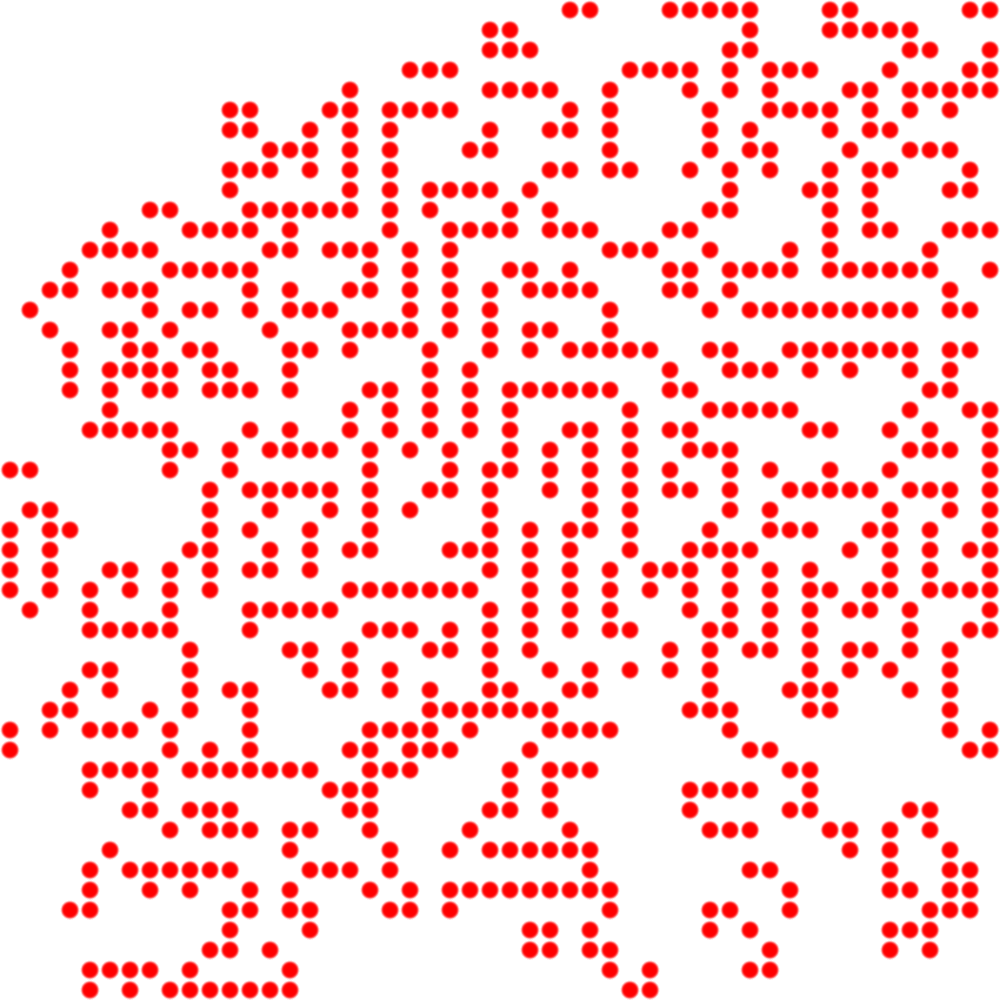
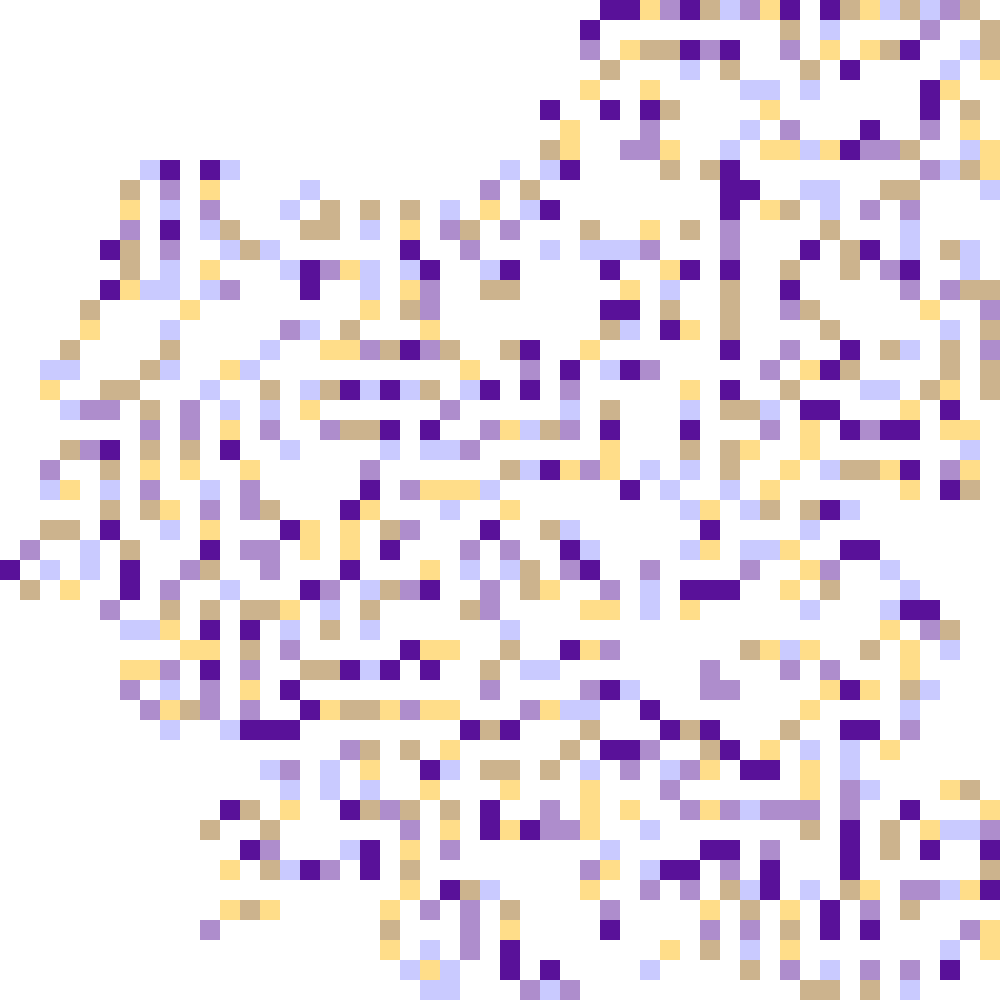
More interesting results, tidier code

diff --git a/conway.py b/conway.py
@@ -1,19 +1,13 @@
 #Conway's Game of Life Implementation
 #Zachary Shannon - 05/2016
 
-#Currently this will work with any 2D test board. Obviously a lot still needs to be done.
-
 import math
 
-from PIL import Image
-
-
-DEAD_CELL = '.'
-ALIVE_CELL = '*'
-
-#Reads in a board. You MUST have a linebreak at the end of each line you
-#want considered, so you must have a linebreak at the end of the last line too.
-def openBoard(file):
+#TODO Needs a rewrite.
+def open_board(file, aliveChar):
+    """Reads in a board from a file. You MUST have a linebreak at the end of
+    each line you want considered, so you must have a linebreak at the end of
+    the last line too."""
 
     newBoard = []
     row = []
@@ -30,23 +24,29 @@ def openBoard(file):
             newBoard.append(row)
             row = []
         else:
-            #Add this char to the row.
-            row.append(c)
+            #Add this to the row.
+            if(c == aliveChar):
+                row.append(True)
+            else:
+                row.append(False)
     return newBoard
 
-#Constructs an empty board
-def buildBoard(rows, cols):
+def build_board(rows, cols):
+    """Constructs an empty board"""
     board = []
 
     for _ in range(rows):
-        l = [DEAD_CELL] * cols
+        l = [False] * cols
         board.append(l)
 
     return board
 
-#Dunno how to explain what this does.
-def padBoard(rows, cols, board):
-    newBoard = buildBoard(rows, cols)
+def pad_board(rows, cols, board):
+    """Takes the board board and puts it into the middle of an empty board of
+    size rows * cols. You might get interesting results if the
+    board is too big."""
+
+    newBoard = build_board(rows, cols)
 
     startRow = math.ceil(rows/2) - math.ceil(len(board)/2)
     startCol = math.ceil(cols/2) - math.ceil(len(board[0])/2)
@@ -57,124 +57,88 @@ def padBoard(rows, cols, board):
 
     return newBoard
 
-#Checks for dead or alive - you spin me right round.
-def isAlive(cell):
-    return(True if cell != DEAD_CELL else False)
-def isDead(cell):
-    return(not(isAlive(cell)))
+def is_alive(cell):
+    """Return true if cell is alive."""
+    return(True if cell != False else False)
+def is_dead(cell):
+    """Return false if cell is dead."""
+    return(not(is_alive(cell)))
 
-#Print out a 2d list.
-def print2d(world):
-    for sublist in world:
-        for element in sublist:
-            print(element, end='')
-        print(""); #Newline
-
-#Check if an element is out of bounds.
-def isInBounds(i, j, world):
+def is_in_bounds(i, j, world):
+    """Check if an index is out of bounds of the board."""
     if (i < 0 or j < 0 or i+1 > len(world) or j+1 > len(world[i])):
         return False
     else:
         return True
 
-#Get the neighbours of a cell.
-def getNeighbours(i, j, world):
+def get_neighbours(i, j, world):
+    """Get a list of all neighbours of a cell."""
     neighbours = []
 
     #Look up
-    if(isInBounds(i-1, j, world)):
+    if(is_in_bounds(i-1, j, world)):
         neighbours.append(world[i-1][j])
     #Look up left
-    if(isInBounds(i-1, j-1, world)):
+    if(is_in_bounds(i-1, j-1, world)):
         neighbours.append(world[i-1][j-1])
     #Look up right
-    if(isInBounds(i-1, j+1, world)):
+    if(is_in_bounds(i-1, j+1, world)):
         neighbours.append(world[i-1][j+1])
     #Look down
-    if(isInBounds(i+1, j, world)):
+    if(is_in_bounds(i+1, j, world)):
         neighbours.append(world[i+1][j])
     #Look down left
-    if(isInBounds(i+1, j-1, world)):
+    if(is_in_bounds(i+1, j-1, world)):
         neighbours.append(world[i+1][j-1])
     #Look down right
-    if(isInBounds(i+1, j+1, world)):
+    if(is_in_bounds(i+1, j+1, world)):
         neighbours.append(world[i+1][j+1])
     #Look left
-    if(isInBounds(i, j-1, world)):
+    if(is_in_bounds(i, j-1, world)):
         neighbours.append(world[i][j-1])
     #Look right
-    if(isInBounds(i, j+1, world)):
+    if(is_in_bounds(i, j+1, world)):
         neighbours.append(world[i][j+1])
 
     return neighbours
 
 #Find how many alive neighbours an element has.
-def numNeighbours(i, j, world):
+def num_neighbours(i, j, world):
+    """Count how many alive neighbours an element has."""
     n = 0
-    for cell in getNeighbours(i, j, world):
-        if isAlive(cell):
+    for cell in get_neighbours(i, j, world):
+        if is_alive(cell):
             n = n + 1
     return n
 
 #Runs a cell to its next iteration
-def iterateCell(i, j, world):
-    n = numNeighbours(i, j, world)
+def iterate_cell(i, j, world):
+    """Run a game of life cell to its next iteration."""
+    n = num_neighbours(i, j, world)
     cell = world[i][j]
 
-    if(n < 2 and isAlive(cell)):
-        return DEAD_CELL
-    if(n < 4 and isAlive(cell)):
-        return ALIVE_CELL
-    if(n > 3 and isAlive(cell)):
-        return DEAD_CELL
-    if(n == 3 and isDead(cell)):
-        return ALIVE_CELL
+    if(n < 2 and is_alive(cell)):
+        return False
+    if(n < 4 and is_alive(cell)):
+        return True
+    if(n > 3 and is_alive(cell)):
+        return False
+    if(n == 3 and is_dead(cell)):
+        return True
 
     return cell
 
-#Take the world to its next iteration
-def nextIteration(world):
+def next_iteration(world):
+    """Run a game of life board to its next iteration."""
     newWorld = world
     for i, sublist in enumerate(world):
         for j, element in enumerate(sublist):
-            newWorld[i][j] = iterateCell(i, j, world)
+            newWorld[i][j] = iterate_cell(i, j, world)
     return newWorld
 
+def get_board_after(iterations, board):
+    """Runs a board to a certain number of iterations."""
+    for _ in range(0, iterations):
+        board = next_iteration(board)
 
-def getImage(world, cell):
-
-    #There is a real potential for bugs here.
-
-    #Load the cell.
-    cellMap = cell.load()
-
-    #Create a white image.
-    img = Image.new('RGB', (len(world) * cell.size[0],
-                                        len(world[0]) * cell.size[1]), "white")
-    pixmap = img.load() #Create the pixel maps
-
-    curRow = 0
-    curCol = 0
-
-    for i, sublist in enumerate(world):
-        for j, element in enumerate(sublist):
-            if (element == ALIVE_CELL):
-                #Add to the map.
-                for k in range (cell.size[0]):
-                    for l in range (cell.size[1]):
-                        pixmap[((j*cell.size[0])+l), ((i*cell.size[1])+k)] = cellMap[l, k]
-
-    return img
-
-#Test board.
-iterations = 124
-seed = openBoard('golSeed.txt')
-conway = padBoard(50, 50, seed)
-
-for _ in range(0, iterations):
-    conway = nextIteration(conway)
-
-# print2d(conway)
-cell = Image.open('cell.bmp')
-img = getImage(conway, cell)
-img.save('out.png', "PNG")
+    return board

diff --git a/draw.py b/draw.py
@@ -1,0 +1,67 @@
+#Tools for making pretty representations of grids of things.
+#Zachary Shannon - 05/2016
+
+#I'm running this on Ubuntu 14.04 Server.
+#If this import doesn't work, well, good luck!
+from PIL import Image
+import random
+
+def get_random_element(l):
+    """Gets a random element from a list."""
+    return l[random.randint(0, (len(l)-1))]
+
+def image_from_binary_cell(world, cell):
+    """Get image for a 2 dimensional binary array. Each 'True' element will
+    be represented with the pixel map provided."""
+
+    #Load the cell.
+    cellMap = cell.load()
+
+    #Create a white image.
+    img = Image.new('RGB', (len(world) * cell.size[0],
+                                        len(world[0]) * cell.size[1]), "white")
+    pixmap = img.load() #Create the pixel maps
+
+    curRow = 0
+    curCol = 0
+
+    for i, sublist in enumerate(world):
+        for j, element in enumerate(sublist):
+            if (element):
+                #Add to the map.
+                for k in range (cell.size[0]):
+                    for l in range (cell.size[1]):
+                        pixmap[((j*cell.size[0])+l), ((i*cell.size[1])+k)] = cellMap[l, k]
+
+    return img
+
+def image_from_binary_random(world, cellsize, colourScheme):
+    """Get image for a 2 dimensional binary array. """
+
+    #Create a white image.
+    img = Image.new('RGB', (len(world) * cellsize,
+                                        len(world[0]) * cellsize), "white")
+    pixmap = img.load() #Create the pixel maps
+
+    curRow = 0
+    curCol = 0
+
+    for i, sublist in enumerate(world):
+        for j, element in enumerate(sublist):
+            if (element):
+                
+                colour = get_random_element(colourScheme)
+
+                #Add to the map.
+                for k in range (cellsize):
+                    for l in range (cellsize):
+                        pixmap[((j*cellsize)+l), ((i*cellsize)+k)] = (colour[0], colour[1], colour[2])
+
+    return img
+
+def print_2d(world):
+    """Print out a 2d list."""
+    for sublist in world:
+        for element in sublist:
+            print(element, end='')
+        print(""); #Newline

diff --git a/test.py b/test.py
@@ -1,0 +1,17 @@
+import draw
+import conway
+from PIL import Image
+
+board = conway.open_board('golSeed.txt','*')
+board = conway.pad_board(50,50,board)
+board = conway.get_board_after(150, board)
+
+#Arbitrary colour scheme.
+colours = [[174,141,204],[89,17,153],[201,202,255],[255,221,137],[204,179,141]]
+
+img = draw.image_from_binary_random(board, 20, colours)
+img.save('out.png', 'PNG')
+
+cell = Image.open("cell.bmp")
+img2 = draw.image_from_binary_cell(board, cell)
+img2.save('out2.png', "PNG")

diff --git a/readme.md b/readme.md
@@ -5,4 +5,7 @@ Produces pretty pictures from Conway's Game of Life, after a certain number of g
 For example:
 ![](out.png)
 
+or:
+![](out2.png)
+
 This is pretty basic and code is a bit messy. Not more than an hour and a bit of work.
